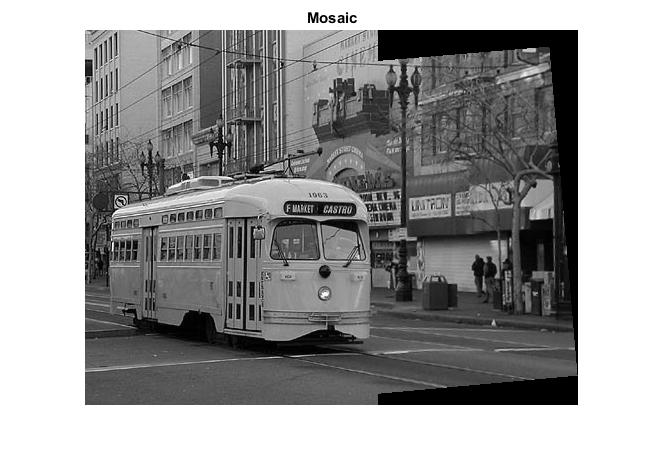
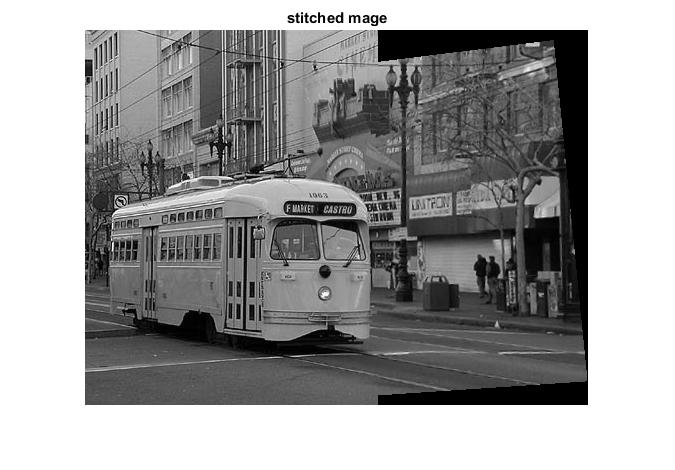
First start of the report

Changed region(s): [[0.1203, 0.0298, 0.8722, 0.8638], [0.391, 0.7149, 0.4812, 0.7745]]

diff --git a/Assignment 4/Image_stitching.m b/Assignment 4/Image_stitching.m
@@ -1,116 +1,76 @@
 function Stitched = Image_stitching(image_1 , image_2)
+    %% Stitching function that takes two images and stitches them together.
+    % N: Iterations of ransac
+    N = 100;
 
-% im_2_aligned = Image_alignment(single(image_1) , single(image_2));
+    [f_1,d_1] = vl_sift(single(image_1));
+    [f_2,d_2] = vl_sift(single(image_2));
 
-[f_1,d_1] = vl_sift(single(image_1));
-[f_2,d_2] = vl_sift(single(image_2));
-% [f_2,d_2] = vl_sift(im_2_aligned); 
+    % Get the set of supposed matches between region descriptors in each image.
+    [matches, scores] = vl_ubcmatch(d_1, d_2);
 
-% Get the set of supposed matches between region descriptors in each image.
-[matches, scores] = vl_ubcmatch(d_1, d_2);
+    X1 = f_1(1:2,matches(1,:)) ; X1(3,:) = 1 ;
+    X2 = f_2(1:2,matches(2,:)) ; X2(3,:) = 1 ;
 
-X1 = f_1(1:2,matches(1,:)) ; X1(3,:) = 1 ;
-X2 = f_2(1:2,matches(2,:)) ; X2(3,:) = 1 ;
+    for elem_t = 1:N
+      % estimate homograpyh
+      subset = vl_colsubset(1:size(matches,2), 4) ;
+      A = [] ;
+      for i = subset
+        A = cat(1, A, kron(X1(:,i)', vl_hat(X2(:,i)))) ;
+      end
+      [U,S,V] = svd(A) ;
+      Homegraph{elem_t} = reshape(V(:,9),3,3) ;
 
-clear H score ok ;
-for t = 1:100
-  % estimate homograpyh
-  subset = vl_colsubset(1:size(matches,2), 4) ;
-  A = [] ;
-  for i = subset
-    A = cat(1, A, kron(X1(:,i)', vl_hat(X2(:,i)))) ;
-  end
-  [U,S,V] = svd(A) ;
-  H{t} = reshape(V(:,9),3,3) ;
+      % score homography
+      X2_ = Homegraph{elem_t} * X1 ;
+      distance_x = X2_(1,:)./X2_(3,:) - X2(1,:)./X2(3,:) ;
+      distance_y = X2_(2,:)./X2_(3,:) - X2(2,:)./X2(3,:) ;
+      inlier{elem_t} = (distance_x.*distance_x + distance_y.*distance_y) < 6*6 ;
+      score(elem_t) = sum(inlier{elem_t}) ;
+    end
 
-  % score homography
-  X2_ = H{t} * X1 ;
-  du = X2_(1,:)./X2_(3,:) - X2(1,:)./X2(3,:) ;
-  dv = X2_(2,:)./X2_(3,:) - X2(2,:)./X2(3,:) ;
-  ok{t} = (du.*du + dv.*dv) < 6*6 ;
-  score(t) = sum(ok{t}) ;
-end
+    [score, best] = max(score) ;
+    Homegraph = Homegraph{best} ;
 
-[score, best] = max(score) ;
-H = H{best} ;
-ok = ok{best} ;
+    dh1 = max(size(image_2,1)-size(image_1,1),0) ;
+    dh2 = max(size(image_1,1)-size(image_2,1),0) ;
 
-
-dh1 = max(size(image_2,1)-size(image_1,1),0) ;
-dh2 = max(size(image_1,1)-size(image_2,1),0) ;
-
-figure(1) ; clf ;
-subplot(2,1,1) ;
-imshow([padarray(image_1,dh1,'post') padarray(image_2,dh2,'post')]) ;
-o = size(image_1,2) ;
-line([f_1(1,matches(1,:));f_2(1,matches(2,:))+o], ...
-     [f_1(2,matches(1,:));f_2(2,matches(2,:))]) ;
-title(sprintf('%d tentative matches', size(matches,2))) ;
-axis image off ;
-
-subplot(2,1,2) ;
-imshow([padarray(image_1,dh1,'post') padarray(image_2,dh2,'post')]) ;
-o = size(image_1,2) ;
-line([f_1(1,matches(1,ok));f_2(1,matches(2,ok))+o], ...
-     [f_1(2,matches(1,ok));f_2(2,matches(2,ok))]) ;
-title(sprintf('%d (%.2f%%) inliner matches out of %d', ...
-              sum(ok), ...
-              100*sum(ok)/size(matches,2), ...
-              size(matches,2))) ;
-axis image off ;
-
-drawnow ;
+    figure();
+    imshow([padarray(image_1,dh1,'post') padarray(image_2,dh2,'post')]) ;
+    o = size(image_1,2) ;
+    line([f_1(1,matches(1,:));f_2(1,matches(2,:))+o], [f_1(2,matches(1,:));f_2(2,matches(2,:))]) ;
+    axis image off ;
+    drawnow ;
 
 
-box2 = [1  size(image_2,2) size(image_2,2)  1 ;
-        1  1           size(image_2,1)  size(image_2,1) ;
-        1  1           1            1 ] ;
-box2_ = inv(H) * box2 ;
-box2_(1,:) = box2_(1,:) ./ box2_(3,:) ;
-box2_(2,:) = box2_(2,:) ./ box2_(3,:) ;
-ur = min([1 box2_(1,:)]):max([size(image_1,2) box2_(1,:)]) ;
-vr = min([1 box2_(2,:)]):max([size(image_1,1) box2_(2,:)]) ;
+    box2 = [1   size(image_2,2)  size(image_2,2)     1 ;
+            1   1                size(image_2,1)     size(image_2,1) ;
+            1   1                1                   1 ] ;
 
-[u,v] = meshgrid(ur,vr) ;
-image_1_ = vl_imwbackward(im2double(image_1),u,v) ;
+    box2_inv = Homegraph \ box2 ;
+    box2_inv(1,:) = box2_inv(1,:) ./ box2_inv(3,:) ;
+    box2_inv(2,:) = box2_inv(2,:) ./ box2_inv(3,:) ;
+    ur = min([1 box2_inv(1,:)]):max([size(image_1,2) box2_inv(1,:)]) ;
+    vr = min([1 box2_inv(2,:)]):max([size(image_1,1) box2_inv(2,:)]) ;
 
-z_ = H(3,1) * u + H(3,2) * v + H(3,3) ;
-u_ = (H(1,1) * u + H(1,2) * v + H(1,3)) ./ z_ ;
-v_ = (H(2,1) * u + H(2,2) * v + H(2,3)) ./ z_ ;
-image_2_ = vl_imwbackward(im2double(image_2),u_,v_) ;
+    [u,v] = meshgrid(ur,vr) ;
+    image_1_ = vl_imwbackward(im2double(image_1),u,v) ;
 
-mass = ~isnan(image_1_) + ~isnan(image_2_) ;
-image_1_(isnan(image_1_)) = 0 ;
-image_2_(isnan(image_2_)) = 0 ;
-mosaic = (image_1_ + image_2_) ./ mass ;
+    z_ =  Homegraph(3,1) * u + Homegraph(3,2) * v + Homegraph(3,3) ;
+    u_ = (Homegraph(1,1) * u + Homegraph(1,2) * v + Homegraph(1,3)) ./ z_ ;
+    v_ = (Homegraph(2,1) * u + Homegraph(2,2) * v + Homegraph(2,3)) ./ z_ ;
+    image_2_ = vl_imwbackward(im2double(image_2),u_,v_) ;
 
-figure(2) ; clf ;
-imshow(mosaic) ; axis image off ;
-title('Mosaic') ;
+    mass = ~isnan(image_1_) + ~isnan(image_2_) ;
+    image_1_(isnan(image_1_)) = 0 ;
+    image_2_(isnan(image_2_)) = 0 ;
+    Stitched = (image_1_ + image_2_) ./ mass ;
 
-% Match_coor = zeros(50,2);
-% for x=1:50
-%     x_coor_im_1 = f_1(matches(x,1));
-%     y_coor_im_1 = f_1(matches(x,2));
-%     x_coor_im_2 = f_2(matches(x,1));
-%     y_coor_im_2 = f_2(matches(x,2));
-%     Match_coor(x,:) = [x_coor_im_1-x_coor_im_2,y_coor_im_1-y_coor_im_2];
-% end
-% start = mean(Match_coor);
-% X_start = round(start(1));
-% Y_start = round(start(2));
-% stitched_image = zeros(X_start+size(im_2_aligned,1),Y_start+size(im_2_aligned,2));
-% for x=1:size(stitched_image,1)
-%     for y=1:size(stitched_image,2)
-%         stitched_image(x,y) = image_1(x,y);
-%         if x >= X_start && y >= Y_start
-%             stitched_image(x,y) = im_2_aligned(x-X_start, y-Y_start);
-%             
-%         end
-%         
-%     end
-% end
+    figure();
+    imshow(Stitched) ;
+    title('stitched mage') ;
 
-stitching = mosaic;
+
 
 end

diff --git a/Assignment 4/ransac.m b/Assignment 4/ransac.m
@@ -1,4 +1,5 @@
 function transformation = ransac(N, P, T)
+    %% RANSAC function that calculates the optimal transformation matrix.
     % Input:
     % N: Iterations of ransac
     % P: Amount of samples from T
@@ -46,7 +47,8 @@ function transformation = ransac(N, P, T)
         % of their pair in image2. 
         for j = 1:size(T)
             elem_coor_T = T(j, 1:2);
-            T_A = [elem_coor_T(1) elem_coor_T(2) 0 0 1 0; 0 0 elem_coor_T(1) elem_coor_T(2) 0 1];
+            T_A = [elem_coor_T(1) elem_coor_T(2) 0 0 1 0;
+                   0 0 elem_coor_T(1) elem_coor_T(2) 0 1];
             T_b = T(j, 3:4)';
             estimate_b = T_A * x;
             if abs(T_b - estimate_b)
@@ -68,5 +70,5 @@ function transformation = ransac(N, P, T)
     % in the scene should correspond to its pose in image2. To transform 
     % the image, implement your own function based on nearest-neighbor interpolation. 
     % Then use the built-in MATLAB functions imtransform and maketform and compare your results.
-    transformation = best_x
+    transformation = best_x;
 end

diff --git a/Assignment 4/main.m b/Assignment 4/main.m
@@ -14,11 +14,7 @@ stitch2 = rgb2gray(imread('right.jpg'));
 % Alignment %
 %%%%%%%%%%%%%
 
-% alignment = Image_alignment(align1, align2);
-% imshow(alignment, [min(min(alignment)),max(max(alignment))]);
-
-% How many iterations in average are needed to ?nd good transformation parameters?
-
+alignment = Image_alignment(align1, align2);
 
 %%%%%%%%%%%%%
 % Stitching %
